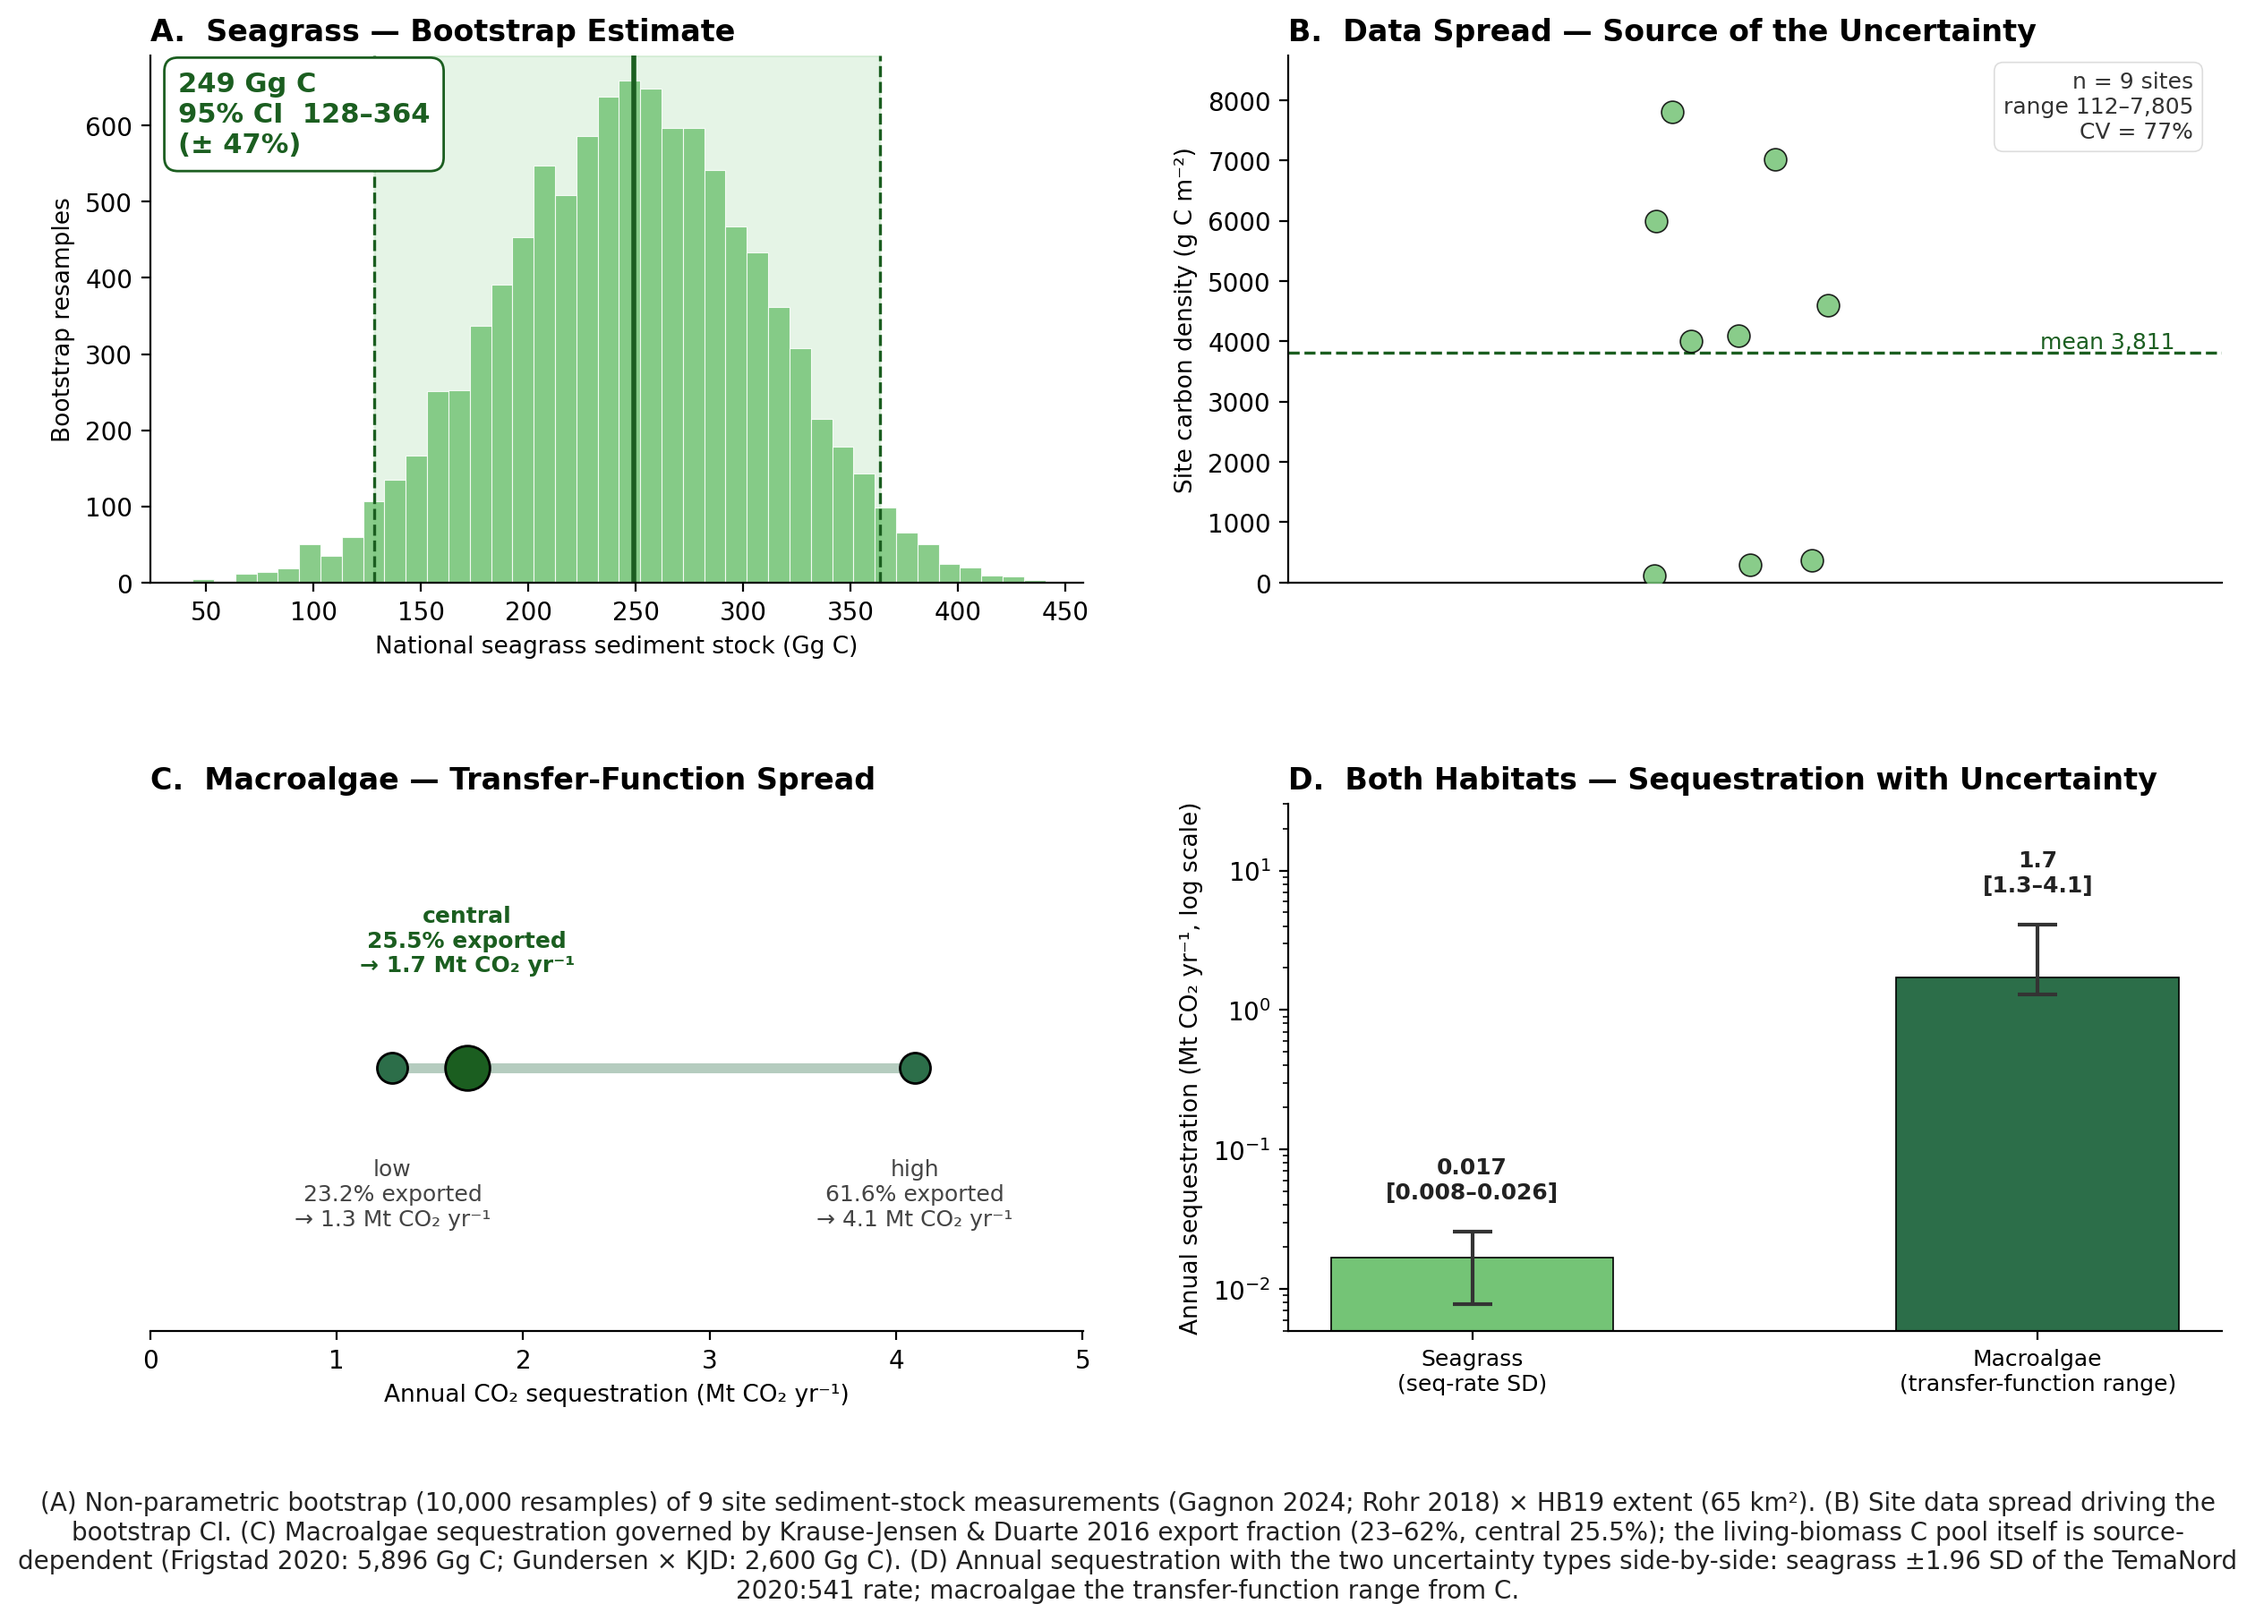
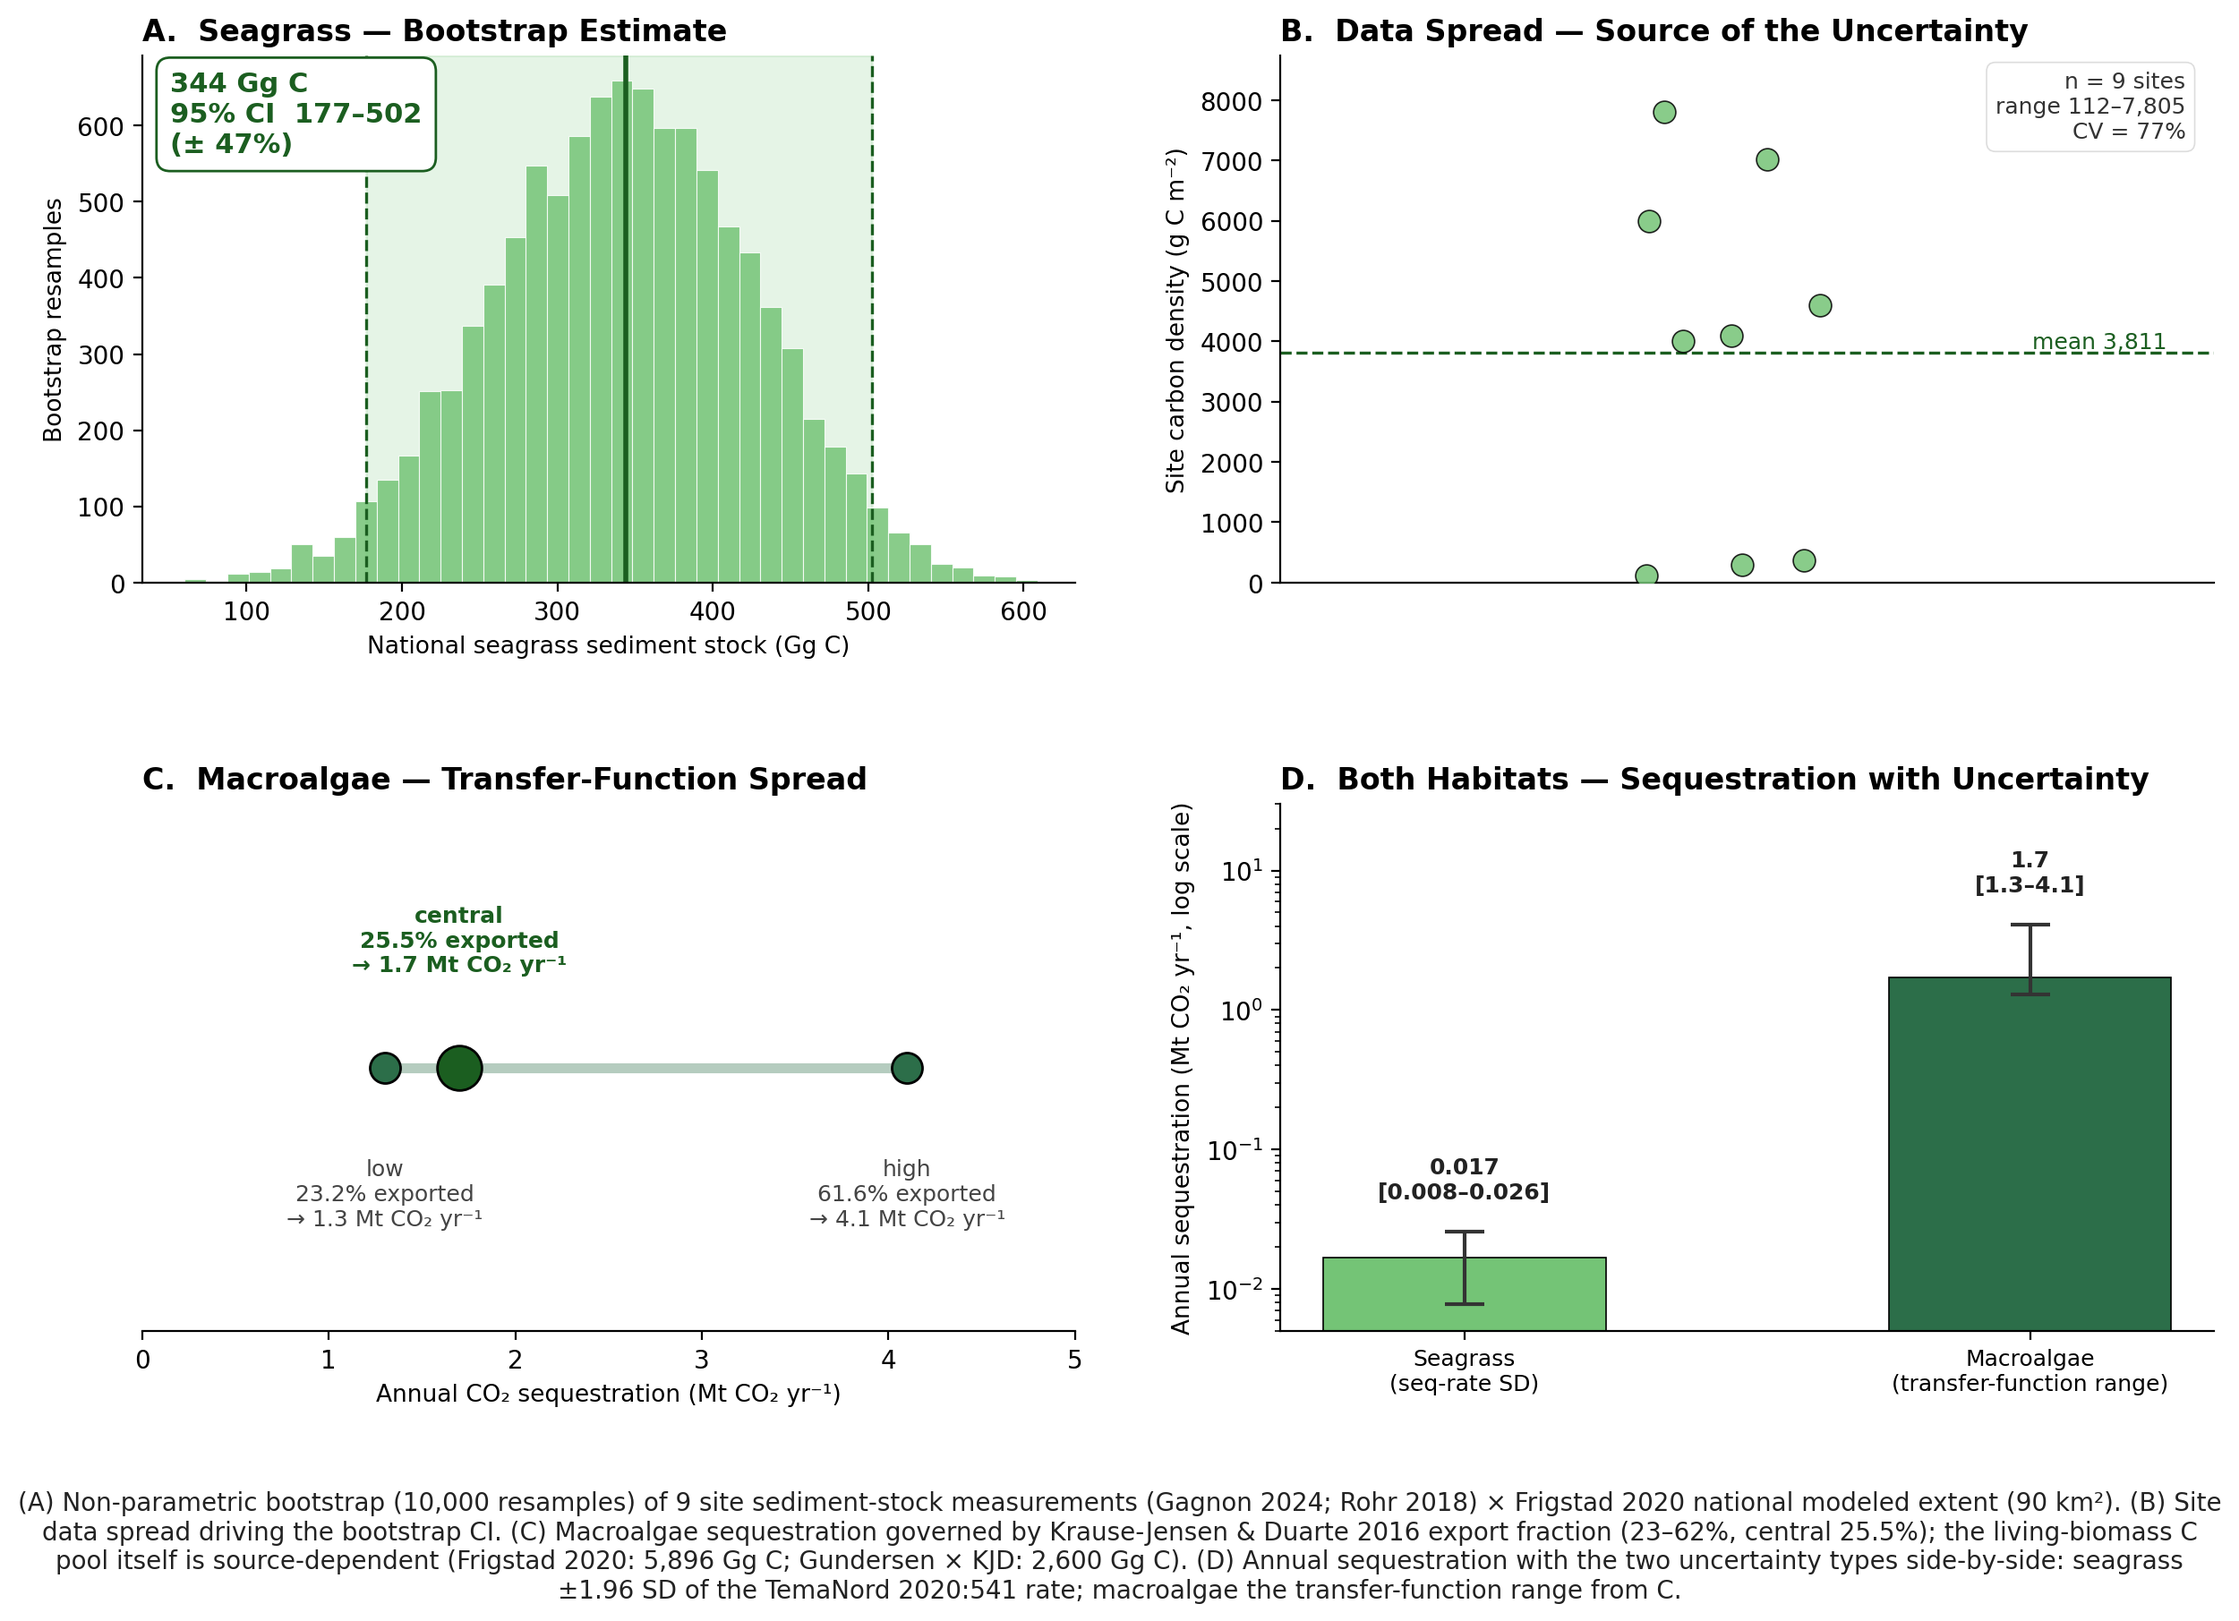
Use Frigstad 90 km² for seagrass bootstrap; reposition Gundersen label
- Seagrass bootstrap now scales site densities by Frigstad 2020's
  national modeled extent (90 km²) instead of the HB19 mapped extent
  (65 km²). 90 km² is the same basis Frigstad's headline 245 Gg C uses,
  so the bootstrap and the published reference sit on the same extent
  footing. Bootstrap headline shifts to 344 Gg C [177–502].
- carbon_balance_sheet.png panel A: Gundersen × KJD reference label
  moved to the left of the macroalgae bar so it no longer bleeds into
  panel B.
- Caption text in seagrass_bootstrap.png corrected (was labeled
  HB19 extent; now Frigstad 2020 national modeled extent).

diff --git a/scripts/figure_carbon_stocks.py b/scripts/figure_carbon_stocks.py
@@ -145,8 +145,12 @@ def fig09_bootstrap(sg: pd.DataFrame, hb19: pd.DataFrame, out: Path) -> dict:
     sg_color, ma_color, dark, pub_color = (
         ECO_COLORS["seagrass"], ECO_COLORS["macroalgae"], "#1b5e20", "#b3541e")
 
-    # Seagrass: bootstrap the site densities, scale by HB19 extent -> national stock.
-    seagrass_extent_km2 = hb19[hb19["ecosystem"] == "seagrass"]["habitat_area_km2"].sum()
+    # Seagrass: bootstrap the site densities, scale by Frigstad 2020 national
+    # modeled extent (90 km²) -> national stock. Frigstad's headline 245 Gg C
+    # uses the same 90 km² basis, so this keeps the bootstrap on the same
+    # extent footing as the published national estimate. HB19 (~65 km²) is
+    # the mapped/surveyed area, which would undercount national stock.
+    seagrass_extent_km2 = SEAGRASS_EXTENT_KM2_MODELED
     site_vals = sg["carbon_stock_g_m2"].values
     pooled_means = bootstrap_pooled_mean(site_vals)
     national_kt_c = pooled_means * seagrass_extent_km2 * 1_000_000 / 1e9
@@ -283,7 +287,8 @@ def fig09_bootstrap(sg: pd.DataFrame, hb19: pd.DataFrame, out: Path) -> dict:
     add_caption(
         fig,
         f"(A) Non-parametric bootstrap ({BOOTSTRAP_N:,} resamples) of {len(site_vals)} site sediment-stock "
-        f"measurements (Gagnon 2024; Rohr 2018) × HB19 extent ({seagrass_extent_km2:.0f} km²). "
+        f"measurements (Gagnon 2024; Rohr 2018) × Frigstad 2020 national modeled extent "
+        f"({seagrass_extent_km2:.0f} km²). "
         "(B) Site data spread driving the bootstrap CI. "
         f"(C) Macroalgae sequestration governed by Krause-Jensen & Duarte 2016 export fraction "
         f"({frac_lo:.0f}–{frac_hi:.0f}%, central {frac_mid:.1f}%); the living-biomass C pool itself is "
@@ -369,14 +374,15 @@ def fig11_balance_sheet(sg: pd.DataFrame, hb19: pd.DataFrame,
                 lbl, ha="center", va="bottom", fontsize=8.5)
     # Single alternative-reference line: Gundersen × KJD areal estimate for
     # macroalgae (the only one not already encoded by the primary Frigstad
-    # bars). Placed only over bar 1.
+    # bars). Placed only over bar 1; label sits to the LEFT of the bar so it
+    # doesn't bleed into panel B.
     bar1_x = bars[1].get_x()
     bar1_w = bars[1].get_width()
     ax.hlines(ma_alt_gg, bar1_x - 0.04, bar1_x + bar1_w + 0.04,
               color=pub_color, linewidth=1.6, linestyle="--")
-    ax.text(bar1_x + bar1_w + 0.06, ma_alt_gg,
-            f"Gundersen × KJD  ({ma_alt_gg:,.0f} Gg C; alt.)",
-            va="center", ha="left", fontsize=8, color=pub_color)
+    ax.text(bar1_x - 0.06, ma_alt_gg,
+            f"Gundersen × KJD\n({ma_alt_gg:,.0f} Gg C; alt.)",
+            va="center", ha="right", fontsize=8, color=pub_color)
     ax.set_ylabel("Carbon pool (Gg C, log scale)", fontsize=9.5)
     ax.set_title("A.  National Carbon Pool  (sediment vs. living biomass)",
                  loc="left", fontweight="bold", fontsize=12)
